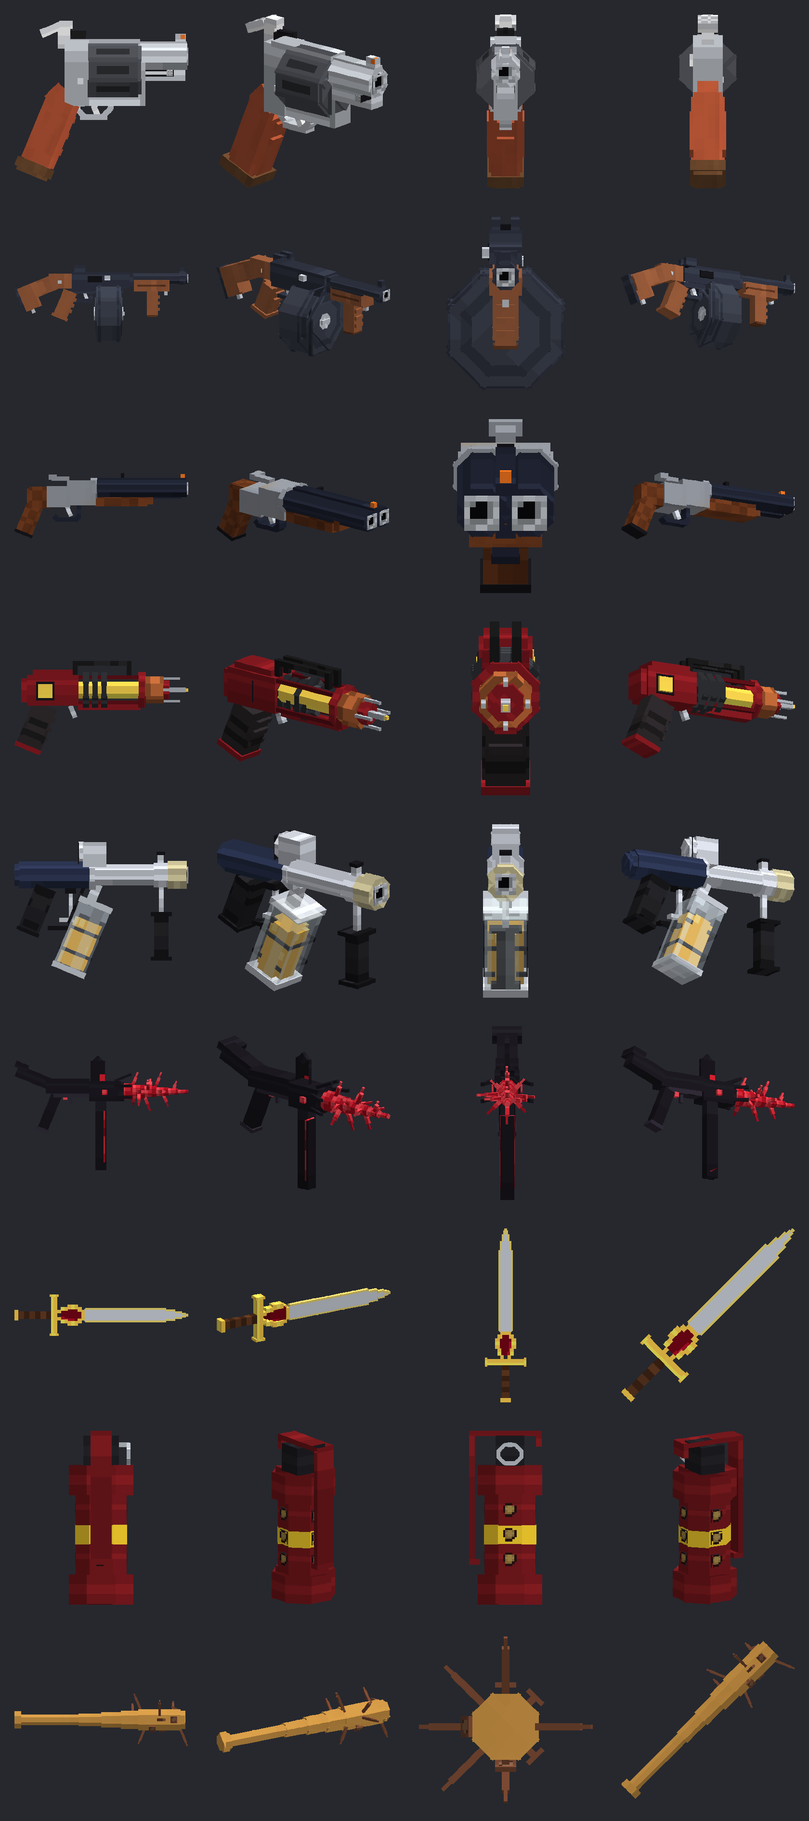
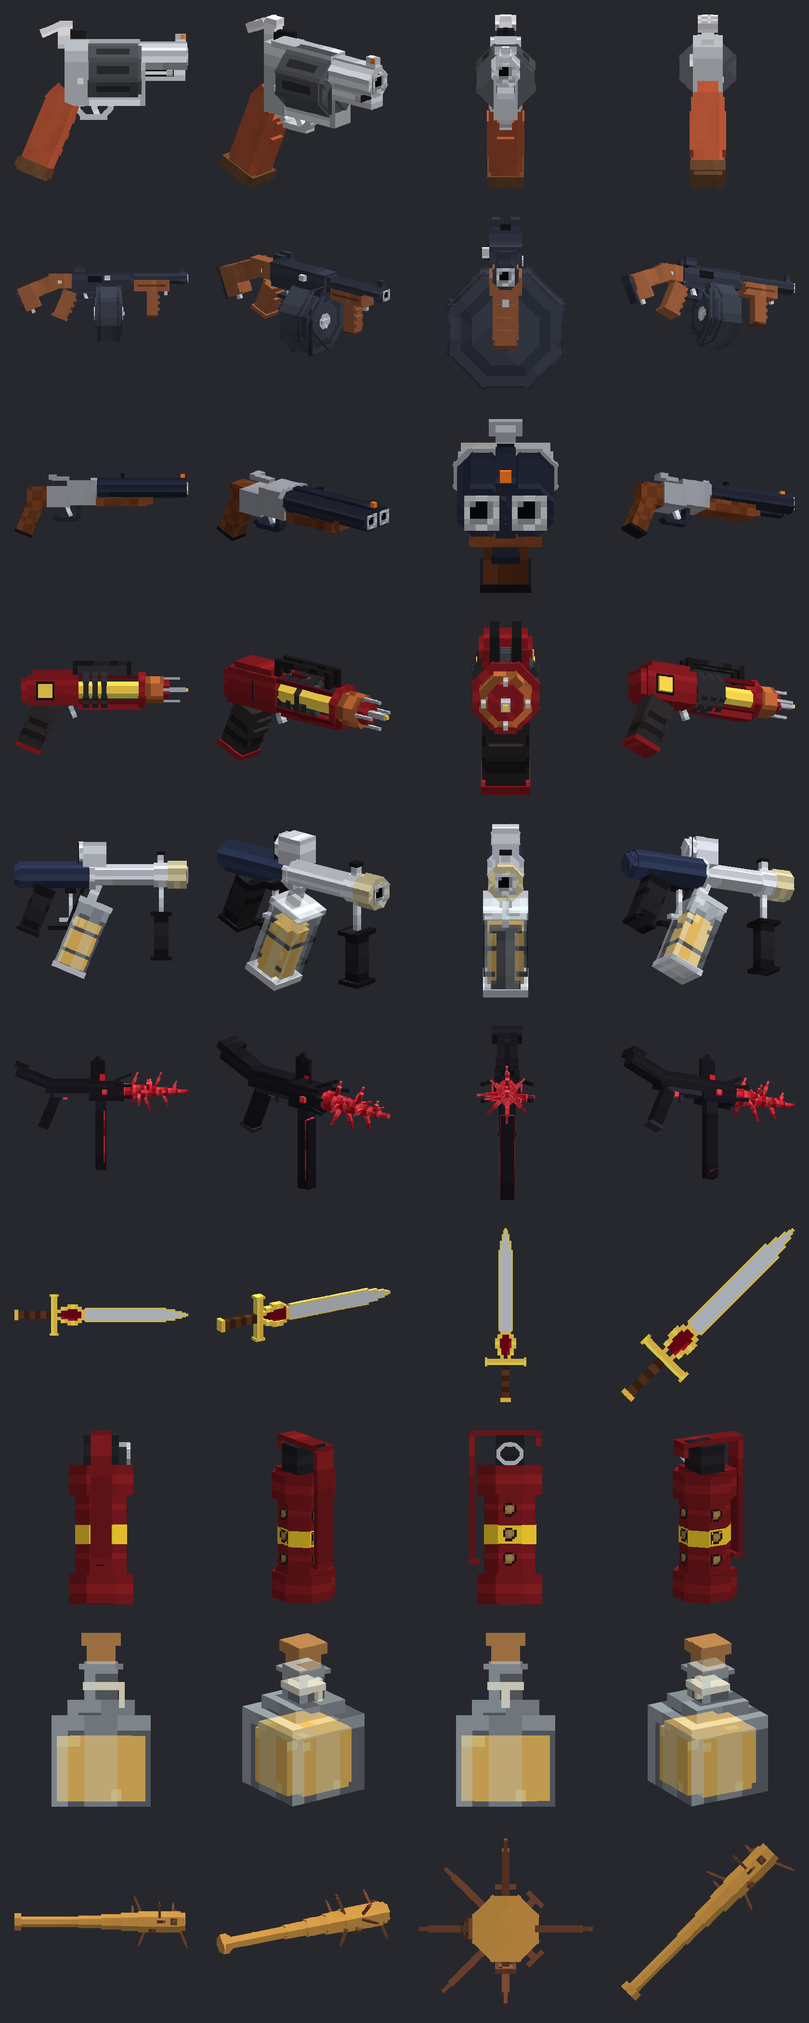
0.10.0: Goo Grenade (thrown flask, slowing goo puddle)
Claude-Session: https://claude.ai/code/session_01G8stAj2NsEdEgKC46eLYfu

diff --git a/src/main/java/dev/handcannon/GooGrenade.java b/src/main/java/dev/handcannon/GooGrenade.java
@@ -1,0 +1,206 @@
+package dev.handcannon;
+
+import net.kyori.adventure.text.Component;
+import net.kyori.adventure.text.format.NamedTextColor;
+import net.kyori.adventure.text.format.TextDecoration;
+import org.bukkit.Bukkit;
+import org.bukkit.GameMode;
+import org.bukkit.Location;
+import org.bukkit.Material;
+import org.bukkit.NamespacedKey;
+import org.bukkit.Particle;
+import org.bukkit.Sound;
+import org.bukkit.SoundCategory;
+import org.bukkit.World;
+import org.bukkit.attribute.Attribute;
+import org.bukkit.attribute.AttributeInstance;
+import org.bukkit.attribute.AttributeModifier;
+import org.bukkit.block.Block;
+import org.bukkit.entity.BlockDisplay;
+import org.bukkit.entity.Entity;
+import org.bukkit.entity.LivingEntity;
+import org.bukkit.entity.Player;
+import org.bukkit.entity.Snowball;
+import org.bukkit.event.EventHandler;
+import org.bukkit.event.EventPriority;
+import org.bukkit.event.Listener;
+import org.bukkit.event.entity.EntityDamageByEntityEvent;
+import org.bukkit.event.entity.ProjectileHitEvent;
+import org.bukkit.event.inventory.PrepareItemCraftEvent;
+import org.bukkit.inventory.EquipmentSlotGroup;
+import org.bukkit.inventory.ItemStack;
+import org.bukkit.inventory.meta.ItemMeta;
+import org.bukkit.persistence.PersistentDataType;
+import org.bukkit.scheduler.BukkitTask;
+import org.bukkit.util.Transformation;
+import org.joml.AxisAngle4f;
+import org.joml.Vector3f;
+
+import java.util.ArrayList;
+import java.util.HashSet;
+import java.util.List;
+import java.util.Set;
+import java.util.UUID;
+
+/**
+ * The Goo Grenade: a flask thrown like a snowball. Where it smashes it leaves a puddle of goo for a few seconds;
+ * anything standing in it is slowed right down (and can barely jump) until it wades out. No damage.
+ */
+final class GooGrenade implements Listener {
+    private final HandCannonPlugin plugin;
+    private final NamespacedKey key, slowKey;
+    private final List<Puddle> puddles = new ArrayList<>();
+    /** Entities currently slowed by a puddle. */
+    private final Set<UUID> slowed = new HashSet<>();
+    private BukkitTask ticker;
+
+    private static final class Puddle {
+        Location centre;
+        double radius;
+        int until;
+        final List<BlockDisplay> shown = new ArrayList<>();
+    }
+
+    GooGrenade(HandCannonPlugin plugin) {
+        this.plugin = plugin;
+        key = new NamespacedKey(plugin, "goo_grenade");
+        slowKey = new NamespacedKey(plugin, "goo_puddle_slow");
+    }
+
+    ItemStack create(int amount) {
+        // a snowball underneath, so Minecraft throws it (and uses one up) by itself; it flies as the flask model
+        ItemStack it = new ItemStack(Material.SNOWBALL, Math.max(1, Math.min(16, amount)));
+        ItemMeta m = it.getItemMeta();
+        m.displayName(Component.text("Goo Grenade", NamedTextColor.GOLD).decoration(TextDecoration.ITALIC, false));
+        m.lore(List.of(Component.text("Right-click to throw", NamedTextColor.GRAY).decoration(TextDecoration.ITALIC, false)));
+        m.setItemModel(NamespacedKey.fromString("handcannon:goo_grenade"));
+        m.getPersistentDataContainer().set(key, PersistentDataType.BYTE, (byte) 1);
+        it.setItemMeta(m);
+        return it;
+    }
+
+    boolean is(ItemStack it) {
+        return it != null && it.hasItemMeta() && it.getItemMeta().getPersistentDataContainer().has(key, PersistentDataType.BYTE);
+    }
+
+    private boolean isFlask(Entity e) { return e instanceof Snowball sb && is(sb.getItem()); }
+
+    /** The flask itself does no damage or knockback. */
+    @EventHandler(priority = EventPriority.LOWEST)
+    public void onFlaskDamage(EntityDamageByEntityEvent e) {
+        if (isFlask(e.getDamager())) e.setCancelled(true);
+    }
+
+    @EventHandler
+    public void onSmash(ProjectileHitEvent e) {
+        if (!isFlask(e.getEntity())) return;
+        Location hit = e.getHitEntity() != null ? e.getHitEntity().getLocation() : e.getEntity().getLocation();
+        World w = hit.getWorld();
+        w.playSound(hit, Sound.BLOCK_GLASS_BREAK, SoundCategory.PLAYERS, 1f, 1.2f);
+        w.playSound(hit, Sound.BLOCK_HONEY_BLOCK_BREAK, SoundCategory.PLAYERS, 1f, 0.7f);
+        w.spawnParticle(Particle.BLOCK, hit, 20, 0.2, 0.2, 0.2, 0, Material.GLASS.createBlockData());
+        w.spawnParticle(Particle.BLOCK, hit, 30, 0.3, 0.3, 0.3, 0, Material.HONEY_BLOCK.createBlockData());
+        Location ground = findGround(hit);
+        if (ground != null) spread(ground);
+    }
+
+    /** The top of the first solid block at or below where it smashed (up to 6 blocks down). */
+    private static Location findGround(Location at) {
+        Block b = at.getBlock();
+        for (int i = 0; i <= 6; i++, b = b.getRelative(0, -1, 0)) {
+            if (b.getType().isSolid()) return new Location(at.getWorld(), at.getX(), b.getY() + 1, at.getZ());
+        }
+        return null;
+    }
+
+    private void spread(Location centre) {
+        var cfg = plugin.getConfig();
+        Puddle pd = new Puddle();
+        pd.centre = centre;
+        pd.radius = Math.max(0.5, cfg.getDouble("goo-grenade.radius", 3.0));
+        pd.until = Bukkit.getCurrentTick() + Math.max(1, cfg.getInt("goo-grenade.duration-ticks", 160));
+        // the puddle: two thin honey slabs, one turned 45 degrees, so it reads as a rough circle
+        float side = (float) (pd.radius * 1.8);
+        for (float deg : new float[]{0f, 45f}) {
+            var q = new org.joml.Quaternionf().rotateY((float) Math.toRadians(deg));
+            Vector3f middle = new Vector3f(side / 2, 0, side / 2).rotate(q);
+            pd.shown.add(centre.getWorld().spawn(centre.clone().add(0, deg == 0 ? 0.01 : 0.02, 0), BlockDisplay.class, d -> {
+                d.setBlock(Material.HONEY_BLOCK.createBlockData());
+                d.setTransformation(new Transformation(new Vector3f(-middle.x, 0, -middle.z), q,
+                        new Vector3f(side, 0.06f, side), new AxisAngle4f()));
+                d.setPersistent(false);   // never saved: a restart can't leave a stray puddle behind
+            }));
+        }
+        puddles.add(pd);
+        if (ticker == null) ticker = Bukkit.getScheduler().runTaskTimer(plugin, this::tick, 1, 2);
+    }
+
+    /** Every other tick: slow whatever's standing in goo, free whatever has waded out, and clear old puddles. */
+    private void tick() {
+        int now = Bukkit.getCurrentTick();
+        for (var it = puddles.iterator(); it.hasNext(); ) {
+            Puddle pd = it.next();
+            if (now >= pd.until) {
+                pd.shown.forEach(Entity::remove);
+                World w = pd.centre.getWorld();
+                w.spawnParticle(Particle.BLOCK, pd.centre, 20, pd.radius / 2, 0.05, pd.radius / 2, 0, Material.HONEY_BLOCK.createBlockData());
+                it.remove();
+            } else if (now % 10 == 0) {
+                pd.centre.getWorld().spawnParticle(Particle.DRIPPING_HONEY, pd.centre.clone().add(0, 0.1, 0), 4,
+                        pd.radius / 2, 0, pd.radius / 2, 0);
+            }
+        }
+        Set<UUID> inside = new HashSet<>();
+        for (Puddle pd : puddles) {
+            for (Entity ent : pd.centre.getWorld().getNearbyEntities(pd.centre, pd.radius, 1.5, pd.radius)) {
+                if (!(ent instanceof LivingEntity le) || le.isDead()) continue;
+                if (le instanceof Player pl && (pl.getGameMode() == GameMode.SPECTATOR || pl.isFlying())) continue;
+                double dx = le.getX() - pd.centre.getX(), dz = le.getZ() - pd.centre.getZ();
+                double dy = le.getY() - pd.centre.getY();
+                if (dx * dx + dz * dz <= pd.radius * pd.radius && dy > -0.6 && dy < 0.6) inside.add(le.getUniqueId());
+            }
+        }
+        for (UUID id : inside) {
+            if (slowed.add(id) && Bukkit.getEntity(id) instanceof LivingEntity le) {
+                setSlow(le, true);
+                if (le instanceof Player pl) pl.sendActionBar(Component.text("Stuck in goo! Wade out slowly", NamedTextColor.GOLD));
+                le.getWorld().playSound(le.getLocation(), Sound.BLOCK_HONEY_BLOCK_SLIDE, SoundCategory.PLAYERS, 1f, 0.7f);
+            }
+        }
+        for (var it = slowed.iterator(); it.hasNext(); ) {
+            UUID id = it.next();
+            if (inside.contains(id)) continue;
+            it.remove();
+            if (Bukkit.getEntity(id) instanceof LivingEntity le) setSlow(le, false);
+        }
+        if (puddles.isEmpty() && slowed.isEmpty() && ticker != null) { ticker.cancel(); ticker = null; }
+    }
+
+    private void setSlow(LivingEntity le, boolean on) {
+        var cfg = plugin.getConfig();
+        double speedCut = Math.min(0.99, Math.max(0, cfg.getDouble("goo-grenade.slow", 0.75)));
+        double jumpCut = Math.min(0.99, Math.max(0, cfg.getDouble("goo-grenade.jump-cut", 0.6)));
+        for (var pair : new Object[][]{{Attribute.MOVEMENT_SPEED, speedCut}, {Attribute.JUMP_STRENGTH, jumpCut}}) {
+            AttributeInstance inst = le.getAttribute((Attribute) pair[0]);
+            if (inst == null) continue;
+            inst.removeModifier(slowKey);
+            if (on) inst.addTransientModifier(new AttributeModifier(slowKey, -(double) pair[1],
+                    AttributeModifier.Operation.MULTIPLY_SCALAR_1, EquipmentSlotGroup.ANY));
+        }
+    }
+
+    /** It's a snowball underneath: keep it out of crafting grids (it would make snow blocks). */
+    @EventHandler
+    public void onCraft(PrepareItemCraftEvent e) {
+        for (ItemStack it : e.getInventory().getMatrix()) if (is(it)) { e.getInventory().setResult(null); return; }
+    }
+
+    /** Called when the plugin shuts down: puddles go and nobody stays slowed. */
+    void clearAll() {
+        for (Puddle pd : puddles) pd.shown.forEach(Entity::remove);
+        puddles.clear();
+        for (UUID id : slowed) if (Bukkit.getEntity(id) instanceof LivingEntity le) setSlow(le, false);
+        slowed.clear();
+        if (ticker != null) { ticker.cancel(); ticker = null; }
+    }
+}

diff --git a/src/main/java/dev/handcannon/HandCannonPlugin.java b/src/main/java/dev/handcannon/HandCannonPlugin.java
@@ -57,6 +57,7 @@ public final class HandCannonPlugin extends JavaPlugin implements Listener, TabE
     private UmbralLance umbral;
     private RadiantAnkh ankh;
     private StunGrenade grenade;
+    private GooGrenade gooGrenade;
     /** Last tick each player fired the Tommy gun, so one click can't fire twice (both hands, block + entity events). */
     private final Map<UUID, Integer> lastTommyShot = new HashMap<>();
 
@@ -74,6 +75,7 @@ public final class HandCannonPlugin extends JavaPlugin implements Listener, TabE
         umbral = new UmbralLance(this);
         ankh = new RadiantAnkh(this);
         grenade = new StunGrenade(this);
+        gooGrenade = new GooGrenade(this);
         getServer().getPluginManager().registerEvents(this, this);
         getServer().getPluginManager().registerEvents(bat, this);
         getServer().getPluginManager().registerEvents(pala, this);
@@ -81,6 +83,7 @@ public final class HandCannonPlugin extends JavaPlugin implements Listener, TabE
         getServer().getPluginManager().registerEvents(umbral, this);
         getServer().getPluginManager().registerEvents(ankh, this);
         getServer().getPluginManager().registerEvents(grenade, this);
+        getServer().getPluginManager().registerEvents(gooGrenade, this);
         var cmd = getCommand("handcannon");
         if (cmd != null) { cmd.setExecutor(this); cmd.setTabCompleter(this); }
     }
@@ -89,6 +92,7 @@ public final class HandCannonPlugin extends JavaPlugin implements Listener, TabE
     public void onDisable() {
         if (pala != null) pala.releaseAll();   // nobody stays stunned or stuck across a restart
         if (goo != null) goo.releaseAll();
+        if (gooGrenade != null) gooGrenade.clearAll();
     }
 
     // ---------------------------------------------------------------- items
@@ -320,17 +324,17 @@ public final class HandCannonPlugin extends JavaPlugin implements Listener, TabE
         String sub = args.length == 0 ? "give" : args[0].toLowerCase();
         switch (sub) {
             case "give" -> {
-                // /hc give [gun|tommy|shotgun|pala|goo|corruption|holy|grenade|bat] [player] ("ankh" also works) ("umbral" also works); the item can be left out (gun)
+                // /hc give [gun|tommy|shotgun|pala|goo|corruption|holy|grenade|googrenade|bat] [player] ("ankh" also works) ("umbral" also works); the item can be left out (gun)
                 int i = 1;
                 String what = "gun";
-                if (args.length > i && List.of("gun", "tommy", "shotgun", "pala", "goo", "corruption", "umbral", "holy", "ankh", "grenade", "bat").contains(args[i].toLowerCase())) what = args[i++].toLowerCase();
+                if (args.length > i && List.of("gun", "tommy", "shotgun", "pala", "goo", "corruption", "umbral", "holy", "ankh", "grenade", "googrenade", "bat").contains(args[i].toLowerCase())) what = args[i++].toLowerCase();
                 Player target;
                 if (args.length > i) target = Bukkit.getPlayerExact(args[i]);
                 else target = sender instanceof Player self ? self : null;
-                if (target == null) { sender.sendMessage(Component.text("Usage: /" + label + " give [gun|tommy|shotgun|pala|goo|corruption|holy|grenade|bat] <player>", NamedTextColor.RED)); return true; }
-                ItemStack item = switch (what) { case "bat" -> bat.create(); case "tommy" -> createTommy(); case "shotgun" -> createShotgun(); case "pala" -> pala.create(); case "goo" -> goo.create(); case "corruption", "umbral" -> umbral.create(); case "holy", "ankh" -> ankh.create(); case "grenade" -> grenade.create(1); default -> createGun(); };
+                if (target == null) { sender.sendMessage(Component.text("Usage: /" + label + " give [gun|tommy|shotgun|pala|goo|corruption|holy|grenade|googrenade|bat] <player>", NamedTextColor.RED)); return true; }
+                ItemStack item = switch (what) { case "bat" -> bat.create(); case "tommy" -> createTommy(); case "shotgun" -> createShotgun(); case "pala" -> pala.create(); case "goo" -> goo.create(); case "corruption", "umbral" -> umbral.create(); case "holy", "ankh" -> ankh.create(); case "grenade" -> grenade.create(1); case "googrenade" -> gooGrenade.create(1); default -> createGun(); };
                 target.getInventory().addItem(item).values().forEach(left -> target.getWorld().dropItem(target.getLocation(), left));
-                sender.sendMessage(Component.text("Gave a " + switch (what) { case "bat" -> "Nail Bat"; case "tommy" -> "Tommy Gun"; case "shotgun" -> "Double Barrel"; case "pala" -> "Pala-Pistol"; case "goo" -> "Goo Cannon"; case "corruption", "umbral" -> "Corruption Cannon"; case "holy", "ankh" -> "Holy Blade"; case "grenade" -> "Stun Grenade"; default -> "Hand Cannon"; } + " to " + target.getName(), NamedTextColor.GOLD));
+                sender.sendMessage(Component.text("Gave a " + switch (what) { case "bat" -> "Nail Bat"; case "tommy" -> "Tommy Gun"; case "shotgun" -> "Double Barrel"; case "pala" -> "Pala-Pistol"; case "goo" -> "Goo Cannon"; case "corruption", "umbral" -> "Corruption Cannon"; case "holy", "ankh" -> "Holy Blade"; case "grenade" -> "Stun Grenade"; case "googrenade" -> "Goo Grenade"; default -> "Hand Cannon"; } + " to " + target.getName(), NamedTextColor.GOLD));
             }
             case "reload" -> {
                 reloadConfig();
@@ -341,7 +345,7 @@ public final class HandCannonPlugin extends JavaPlugin implements Listener, TabE
                 if (target == null) { sender.sendMessage(Component.text("Usage: /" + label + " pack <player>", NamedTextColor.RED)); return true; }
                 sendPack(target);
             }
-            default -> sender.sendMessage(Component.text("Usage: /" + label + " give [gun|tommy|shotgun|pala|goo|corruption|holy|grenade|bat] [player] | reload | pack [player]", NamedTextColor.RED));
+            default -> sender.sendMessage(Component.text("Usage: /" + label + " give [gun|tommy|shotgun|pala|goo|corruption|holy|grenade|googrenade|bat] [player] | reload | pack [player]", NamedTextColor.RED));
         }
         return true;
     }
@@ -352,7 +356,7 @@ public final class HandCannonPlugin extends JavaPlugin implements Listener, TabE
         if (args.length == 1) {
             for (String s : List.of("give", "reload", "pack")) if (s.startsWith(args[0].toLowerCase())) out.add(s);
         } else if (args.length == 2 && args[0].equalsIgnoreCase("give")) {
-            for (String s : List.of("gun", "tommy", "shotgun", "pala", "goo", "corruption", "holy", "grenade", "bat")) if (s.startsWith(args[1].toLowerCase())) out.add(s);
+            for (String s : List.of("gun", "tommy", "shotgun", "pala", "goo", "corruption", "holy", "grenade", "googrenade", "bat")) if (s.startsWith(args[1].toLowerCase())) out.add(s);
             for (Player pl : Bukkit.getOnlinePlayers()) if (pl.getName().toLowerCase().startsWith(args[1].toLowerCase())) out.add(pl.getName());
         } else if (args.length == 3 && args[0].equalsIgnoreCase("give")) {
             for (Player pl : Bukkit.getOnlinePlayers()) if (pl.getName().toLowerCase().startsWith(args[2].toLowerCase())) out.add(pl.getName());

diff --git a/tools/make_pack.py b/tools/make_pack.py
@@ -828,6 +828,31 @@ for yc, zc, ang in ((17.7, 8.9, 45), (17.7, 7.1, -45), (16.2, 8.9, -45), (16.2, 
     box((RX0 + 0.01, yc - 0.2, zc - 0.55), (RX1 - 0.01, yc + 0.2, zc + 0.55), "steel", rot=("x", ang, (8.0 + 3.1, yc, zc)))
 GRENADE = elements
 
+# ---------------- geometry: goo grenade (a thrown flask) ----------------
+# A squat glass flask about three-quarters full of goo (Minecraft's own honey texture, as in the Goo Cannon), a glass
+# shoulder and neck, a cork, and a string tied round the neck. Stands upright, centred on x = z = 8.
+def tex_cork():
+    im = tex_metal((168, 120, 70), 0, edge=False); px = im.load()
+    for x, y in ((3, 4), (10, 2), (6, 9), (12, 11), (2, 13), (8, 6)): px[x, y] = (120, 80, 44, 255)
+    return im
+GOO_GRENADE_TEX = {"glass": tex_glass(), "cork": tex_cork(), "string": tex_metal((220, 210, 180), 0, edge=False)}
+for k, im in GOO_GRENADE_TEX.items(): im.save(path("assets", NS, "textures", "item", "goo_grenade", k + ".png"))
+GOO_GRENADE_PREVIEW_TEX = dict(GOO_GRENADE_TEX, fluid=tex_honey_standin())
+
+elements = []
+# goo inside the bulb (two crossed slabs, the second a hair taller so their tops never coincide)
+box((4.6, 0.4, 5.6), (11.4, 5.4, 10.4), "fluid")
+box((5.6, 0.44, 4.6), (10.4, 5.44, 11.4), "fluid")
+box((4.2, 0.0, 4.2), (11.8, 7.0, 11.8), "glass")                     # the bulb
+box((5.4, 7.0, 5.4), (10.6, 8.2, 10.6), "glass")                     # shoulder
+box((6.7, 8.2, 6.7), (9.3, 11.2, 9.3), "glass")                      # neck
+box((6.3, 10.6, 6.3), (9.7, 11.0, 9.7), "glass")                     # lip
+box((6.9, 11.0, 6.9), (9.1, 13.2, 9.1), "cork")
+box((6.5, 12.4, 6.5), (9.5, 13.4, 9.5), "cork")                      # cork top
+box((6.6, 9.0, 6.6), (9.4, 9.6, 9.4), "string")                      # string tied round the neck
+box((9.4, 7.6, 7.7), (9.8, 9.6, 8.3), "string")                      # its loose end
+GOO_GRENADE = elements
+
 # ---------------- maths for preview + auto-centring ----------------
 def rot_axis(v, axis, deg, origin):
     a = math.radians(deg); c, s = math.cos(a), math.sin(a)
@@ -940,6 +965,16 @@ GRENADE_DISPLAY = {
     "firstperson_righthand": centred(GRENADE, (0, -90, 0), 0.55, (2, 2, 0)),
     "firstperson_lefthand":  centred(GRENADE, (0, 90, 0), 0.55, (2, 2, 0)),
 }
+GOO_GRENADE_DISPLAY = {
+    "gui":                   centred(GOO_GRENADE, (15, -30, 0), 0.9),
+    "ground":                centred(GOO_GRENADE, (0, 0, 0), 0.55),
+    "fixed":                 centred(GOO_GRENADE, (0, 0, 0), 0.9),
+    "head":                  centred(GOO_GRENADE, (0, 0, 0), 0.7, (0, 8, 0)),
+    "thirdperson_righthand": centred(GOO_GRENADE, (0, -90, 10), 0.55, (0, 2.5, 1.0)),
+    "thirdperson_lefthand":  centred(GOO_GRENADE, (0, 90, -10), 0.55, (0, 2.5, 1.0)),
+    "firstperson_righthand": centred(GOO_GRENADE, (0, -90, 0), 0.6, (2, 2, 0)),
+    "firstperson_lefthand":  centred(GOO_GRENADE, (0, 90, 0), 0.6, (2, 2, 0)),
+}
 # The bat is held like a sword: these are vanilla's handheld transforms, turned 45 degrees further because the
 # bat model stands upright where a sword sprite runs corner to corner.
 BAT_DISPLAY = {
@@ -970,6 +1005,7 @@ write_item("goo_cannon", GOO, GOO_TEX, GOO_DISPLAY, "steel", GOO_TEX_PATHS)
 write_item("umbral_lance", UMBRAL, UMB_TEX, UMBRAL_DISPLAY, "black")
 write_item("radiant_ankh", SWORD, SWORD_TEX, SWORD_DISPLAY, "gold")
 write_item("stun_grenade", GRENADE, GRENADE_TEX, GRENADE_DISPLAY, "red")
+write_item("goo_grenade", GOO_GRENADE, GOO_GRENADE_TEX, GOO_GRENADE_DISPLAY, "glass", GOO_TEX_PATHS)
 # pack.mcmeta: resource pack format 88 = Minecraft 26.2
 wjson(path("pack.mcmeta"), {"pack": {"description": "HandCannon weapons", "min_format": [88, 0], "max_format": [99, 0]}})
 
@@ -1036,6 +1072,7 @@ rows = [[render(GUN, TEX, -90, 0), render(GUN, TEX, -130, 18), render(GUN, TEX, 
         [render(UMBRAL, UMB_TEX, -90, 0), render(UMBRAL, UMB_TEX, -130, 18), render(UMBRAL, UMB_TEX, 180, 8), render(UMBRAL, UMB_TEX, -60, -15)],
         [render(SWORD, SWORD_TEX, 0, 0, -90), render(SWORD, SWORD_TEX, 30, 20, -90), render(SWORD, SWORD_TEX, 0, 0, 0), render(SWORD, SWORD_TEX, 0, 0, -45)],
         [render(GRENADE, GRENADE_TEX, 0, 0, 0), render(GRENADE, GRENADE_TEX, 35, 15, 0), render(GRENADE, GRENADE_TEX, -90, 0, 0), render(GRENADE, GRENADE_TEX, 120, 15, 0)],
+        [render(GOO_GRENADE, GOO_GRENADE_PREVIEW_TEX, 0, 0, 0), render(GOO_GRENADE, GOO_GRENADE_PREVIEW_TEX, 35, 20, 0), render(GOO_GRENADE, GOO_GRENADE_PREVIEW_TEX, -90, 0, 0), render(GOO_GRENADE, GOO_GRENADE_PREVIEW_TEX, 120, 20, 0)],
         [render(BAT, BAT_TEX, 0, 0, -90), render(BAT, BAT_TEX, 30, 20, -90), render(BAT, BAT_TEX, 0, 90), render(BAT, BAT_TEX, 0, 0, -45)]]
 pv = Image.new("RGBA", (420 * 4, 420 * len(rows)))
 for r, row in enumerate(rows):

diff --git a/README.md b/README.md
@@ -3,8 +3,8 @@
 A comically oversized snubnose revolver (right-click to fire), a cartoon M1-style Tommy gun with a huge drum magazine
 (hold right-click for full auto), a chunky sawed-off side-by-side shotgun (right-click for a blast of pellets),
 the Pala-Pistol (a slow bolt of light that stuns), the Goo Cannon (a glob of honey that traps), the Corruption Cannon (a piercing beam of darkness),
-the Holy Blade (a sword with an ankh hilt and animated, glowing edges), a stun grenade and a nail-studded
-baseball bat (hold right-click to wind up a home run), all with 3D models. No ammo, no reloading.
+the Holy Blade (a sword with an ankh hilt and animated, glowing edges), a stun grenade, a goo grenade and a
+nail-studded baseball bat (hold right-click to wind up a home run), all with 3D models. No ammo, no reloading.
 
 ![preview](preview.png)
 
@@ -26,7 +26,7 @@ person, third person, the inventory and item frames is the `DISPLAY` table near 
 change a rotation, nudge or scale, re-run the script and re-host the zip.
 
 ## Commands
-    /hc give [gun|tommy|shotgun|pala|goo|corruption|holy|grenade|bat] [player]   give a Hand Cannon (default), Tommy Gun, Double Barrel, Pala-Pistol, Goo Cannon, Corruption Cannon, Holy Blade, Stun Grenade or Nail Bat (op)
+    /hc give [gun|tommy|shotgun|pala|goo|corruption|holy|grenade|googrenade|bat] [player]   give a Hand Cannon (default), Tommy Gun, Double Barrel, Pala-Pistol, Goo Cannon, Corruption Cannon, Holy Blade, Stun Grenade, Goo Grenade or Nail Bat (op)
     /hc reload              reload config.yml (op)
     /hc pack [player]       resend the resource pack (op)
 Permission `handcannon.use` (everyone by default) is needed to fire.
@@ -71,6 +71,12 @@ kept out of its tooltip. `/hc give ankh` still works.
 Right-click throws it (one from the stack; they stack to 16). It tumbles and rolls, and after 1.5 seconds pops with a
 bang, a small puff of smoke and a brief flash that lights the area for a moment. For now it does nothing else: no
 damage and no stun. Settings are under `grenade:`.
+
+## Goo Grenade
+A corked glass flask of goo, thrown like a snowball (one from the stack; they stack to 16). It smashes where it lands
+and leaves a honey puddle about 3 blocks across in every direction for 8 seconds. Anything standing in it walks at a
+quarter of its usual speed and can barely jump until it wades out; it does no damage. Settings are under
+`goo-grenade:`.
 
 ## Nail Bat
 Left-click is a normal hit: 10 damage (five hearts) at full strength, a bit under one swing a second.
